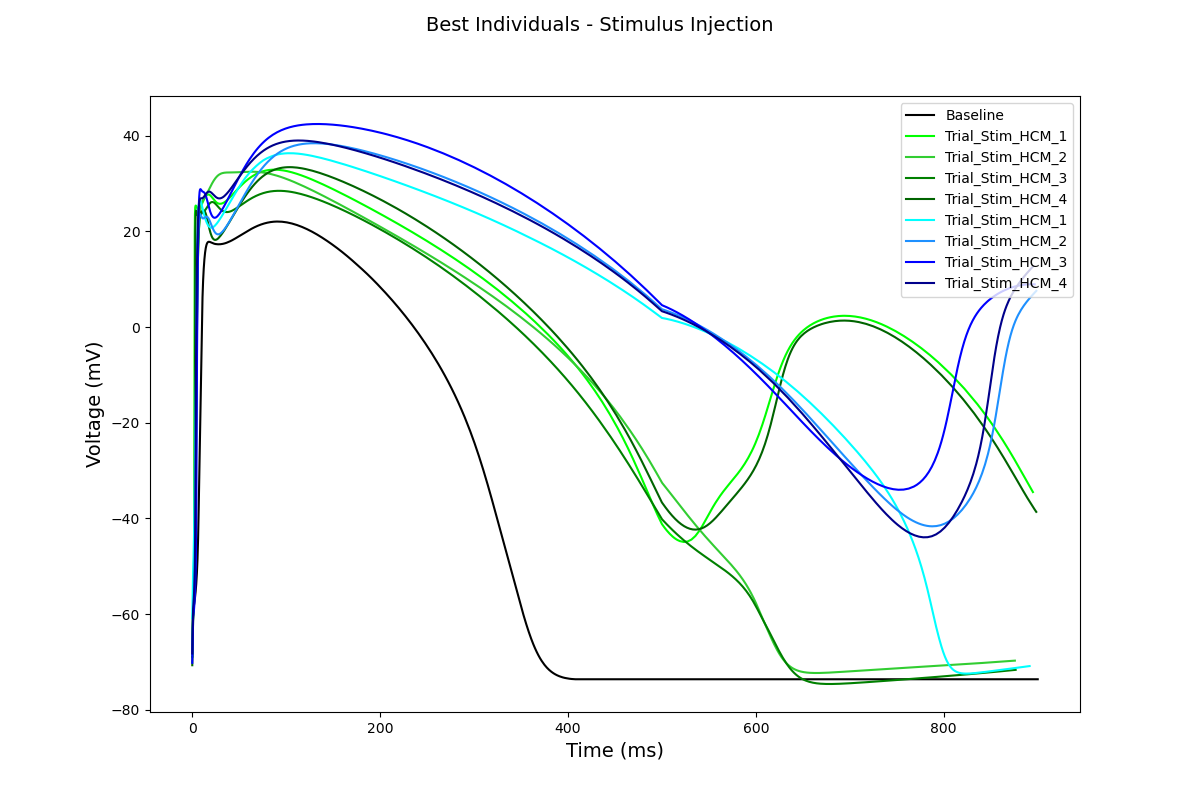
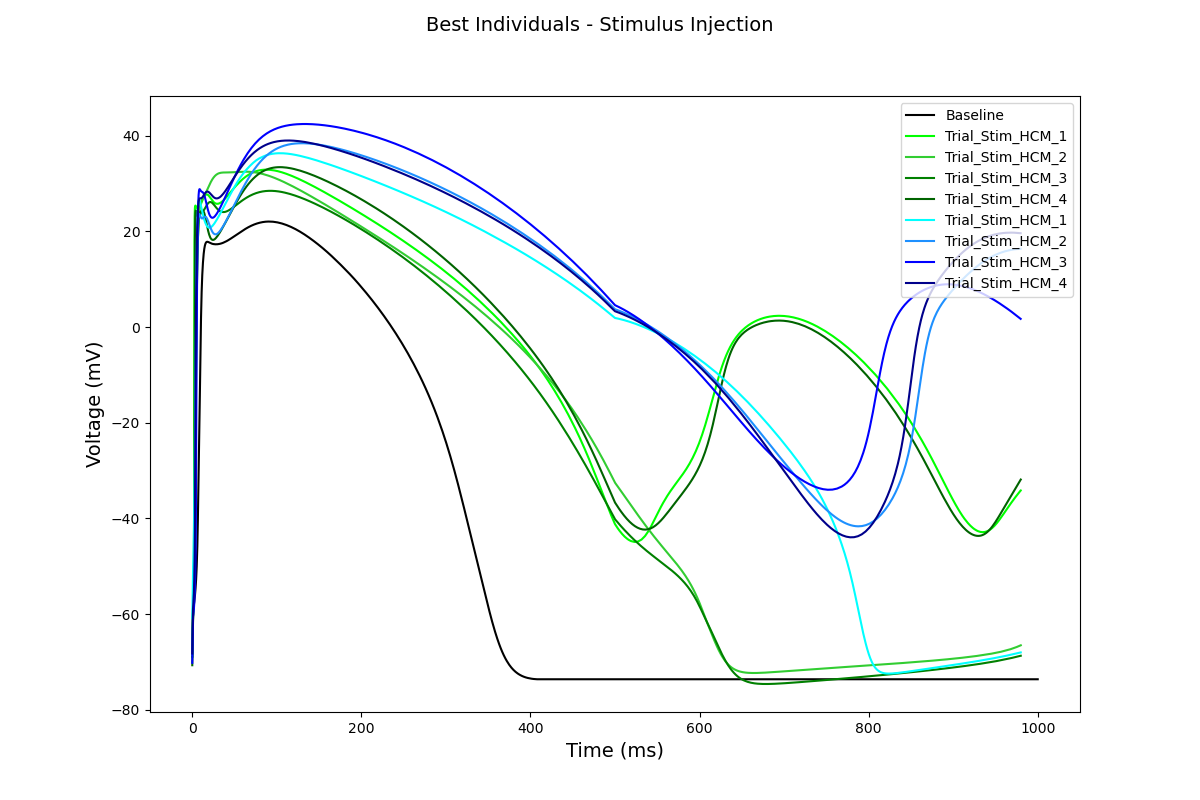
new

diff --git a/GA_bNa_bCa_NaK/functions.py b/GA_bNa_bCa_NaK/functions.py
@@ -69,7 +69,7 @@ def baseline_run():
 
     t = np.array(dat['engine.time'][start_ap:end_ap])
     t = t - t[0]
-    max_idx = np.argmin(np.abs(t-900))
+    max_idx = np.argmin(np.abs(t-980))
     t_leak = t[0:max_idx]
     end_ap = start_ap + max_idx
 
@@ -78,8 +78,8 @@ def baseline_run():
     first_peak = peak_v[0][0] #first is to choose between the peaks and the peak_height, then to choose the first peak
 
     t_leak = t_leak[0:first_peak]
-    n_array = 900 - t[first_peak] #compute time needed to arrive to 1000ms after end of AP
-    t_array = np.array([i+1 for i in range(int(t[first_peak]),900)])
+    n_array = 1000 - t[first_peak] #compute time needed to arrive to 1000ms after end of AP
+    t_array = np.array([i+1 for i in range(int(t[first_peak]),1000)])
     v_leak = v_leak[0:first_peak]
     last_v = v_leak[-1] #last potential value
     v_array = np.full(int(n_array+1),last_v)
@@ -223,7 +223,7 @@ def stim(ind):
 
     t = np.array(dat['engine.time'][start_ap:end_ap])
     t = t - t[0]
-    max_idx = np.argmin(np.abs(t-900))
+    max_idx = np.argmin(np.abs(t-980))
     t_leak = t[0:max_idx]
     end_ap = start_ap + max_idx
 
@@ -242,7 +242,7 @@ def stim(ind):
 
     t = np.array(dat_rrc['engine.time'][start_ap:end_ap])
     t = t - t[0]
-    max_idx = np.argmin(np.abs(t-900))
+    max_idx = np.argmin(np.abs(t-980))
     t_rrc = t[0:max_idx]
     end_ap = start_ap + max_idx
 
